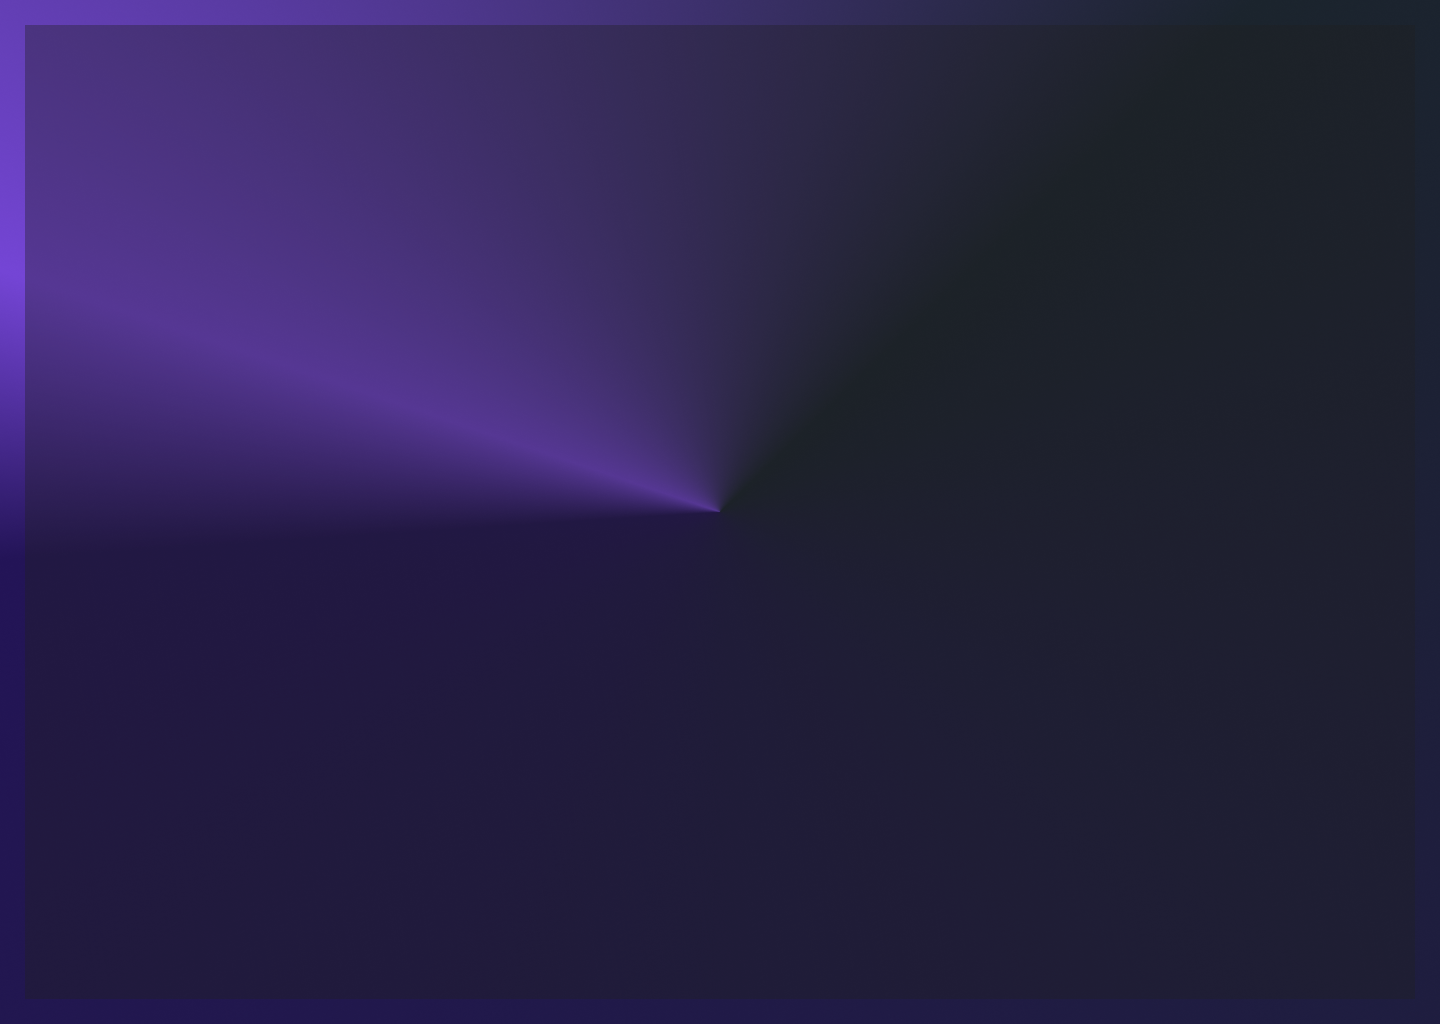
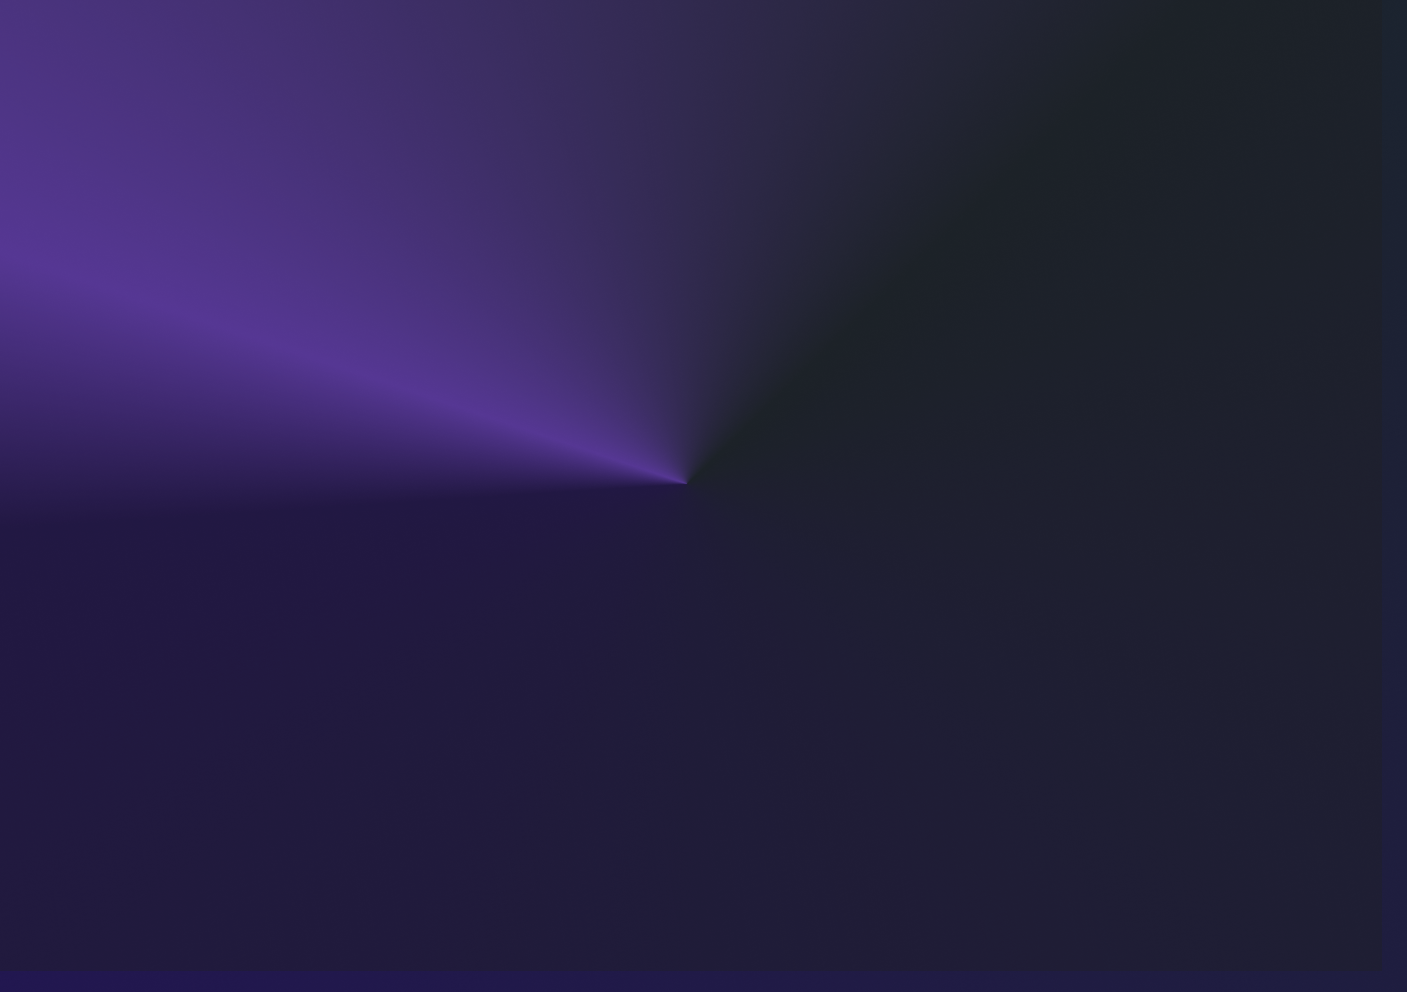
revisions on landing page

Changed region(s): [[0.0, 0.0, 0.5807, 0.5312], [0.4279, 0.4375, 0.5195, 0.5]]

diff --git a/frontend/components/navbar.tsx b/frontend/components/navbar.tsx
@@ -4,31 +4,20 @@ import { Button } from "@/components/ui/button"
 
 export function Navbar() {
   return (
-    <nav className="fixed top-0 left-0 right-0 z-50 bg-blur backdrop-blur-sm border-b border-border">
+    <nav className="fixed top-0 left-0 right-0 z-50 bg-blur bg-transparent backdrop-blur-sm border-0 shadow-sm">
       <div className="container mx-auto px-4 sm:px-6 lg:px-8">
         <div className="flex items-center justify-between h-16">
           <div className="flex items-center">
             <Link href="/" className="flex-shrink-0">
               <Image src="/logo.png" alt="Logo" width={100} height={96} />
             </Link>
-            <div className="hidden md:block ml-10">
-              <div className="flex items-baseline space-x-4">
-                <Link
-                  href="/docs"
-                  className="text-gray-300 hover:text-primary px-3 py-2 rounded-md text-xl font-medium"
-                >
-                  Docs
-                </Link>
-                {/* Add more navigation items here */}
-              </div>
-            </div>
           </div>
           <div className="hidden md:block">
             <div className="ml-4 flex items-center md:ml-6">
-              <Link href={"/ide"} className=" bg-white text-black text-xl px-4 py-2 rounded-lg mr-4">
+              <Link href={"/ide"} className=" bg-white text-black text-sm px-4 py-2 rounded-lg mr-4 font-semibold">
                 IDE
               </Link>
-              <Link href={"/publish"} className=" bg-orange-500 text-xl px-4 py-2 rounded-lg">Publish</Link>
+              <Link href={"/publish"} className=" bg-orange-500 text-sm px-4 py-2 rounded-lg font-semibold">Publish</Link>
             </div>
           </div>
         </div>

diff --git a/frontend/components/cards.tsx b/frontend/components/cards.tsx
@@ -17,16 +17,16 @@ export function Cards() {
   return (
     <div className="grid grid-cols-3 gap-8 w-3/4 m-auto">
       {cardData.map((card, index) => (
-        <div key={index} className="fancy-border rounded-xl overflow-hidden">
-          <Card className="relative z-10 bg-orange-500 text-card-foreground p-6 h-full aspect-[1/1] min-h-[50px] min-w-[50px] flex flex-col justify-between transition-transform duration-300 hover:scale-105 ">
-            <CardHeader >
-              <CardTitle className="text-primary text-black text-2xl">{card.title}</CardTitle>
+        <div key={index} className="rounded-xl overflow-hidden">
+          <Card className="border-0 relative z-10 bg-orange-500 text-card-foreground p-6 h-full aspect-[1/1] min-h-[50px] min-w-[50px] flex flex-col justify-between transition-transform duration-300 hover:scale-105 ">
+            <CardHeader>
+              <CardTitle className="text-primary text-gray-800 text-2xl">{card.title}</CardTitle>
             </CardHeader>
             <CardContent >
-              <CardDescription className="text-muted-foreground text-white text-xl">{card.description}</CardDescription>
+              <CardDescription className="text-muted-foreground text-gray-200 text-xl">{card.description}</CardDescription>
             </CardContent>
             <CardFooter >
-              <Button variant="outline" className="w-full text-xl py-1 px-2 hover:bg-primary hover:text-primary-foreground bg-purple-300">
+              <Button variant="outline" className="w-full text-xl py-1 px-2 hover:bg-primary border-0 hover:text-primary-foreground bg-yellow-100">
                 Learn More
               </Button>
             </CardFooter>

diff --git a/frontend/app/page.tsx b/frontend/app/page.tsx
@@ -3,6 +3,7 @@ import { Cards } from "@/components/cards"
 import { ImageSection } from "@/components/image-section"
 import { Button } from "@/components/ui/button"
 import Link from "next/link"
+import Image from "next/image"
 
 export default function Home() {
   return (
@@ -30,12 +31,12 @@ export default function Home() {
                 </Link>
                 
               </div>
+              <Image src="/preview.png" alt="preview" height={1024} width={1024} className="w-2/3 mt-20" />
             </div>
           </div>
-        </section>
 
-        {/* Image Section */}
-        <ImageSection />
+
+        </section>
 
         {/* Cards Section */}
         <section className="py-24 min-h-screen">

diff --git a/frontend/components/image-section.tsx b/frontend/components/image-section.tsx
@@ -7,7 +7,7 @@ export function ImageSection() {
         <div className="relative fancy-border rounded-xl overflow-hidden">
           <div className="relative z-10 bg-card p-1 rounded-xl overflow-hidden">
             <Image
-              src="/placeholder.svg?height=600&width=1200"
+              src="/preview.png"
               alt="manimBook Showcase"
               width={1200}
               height={600}
